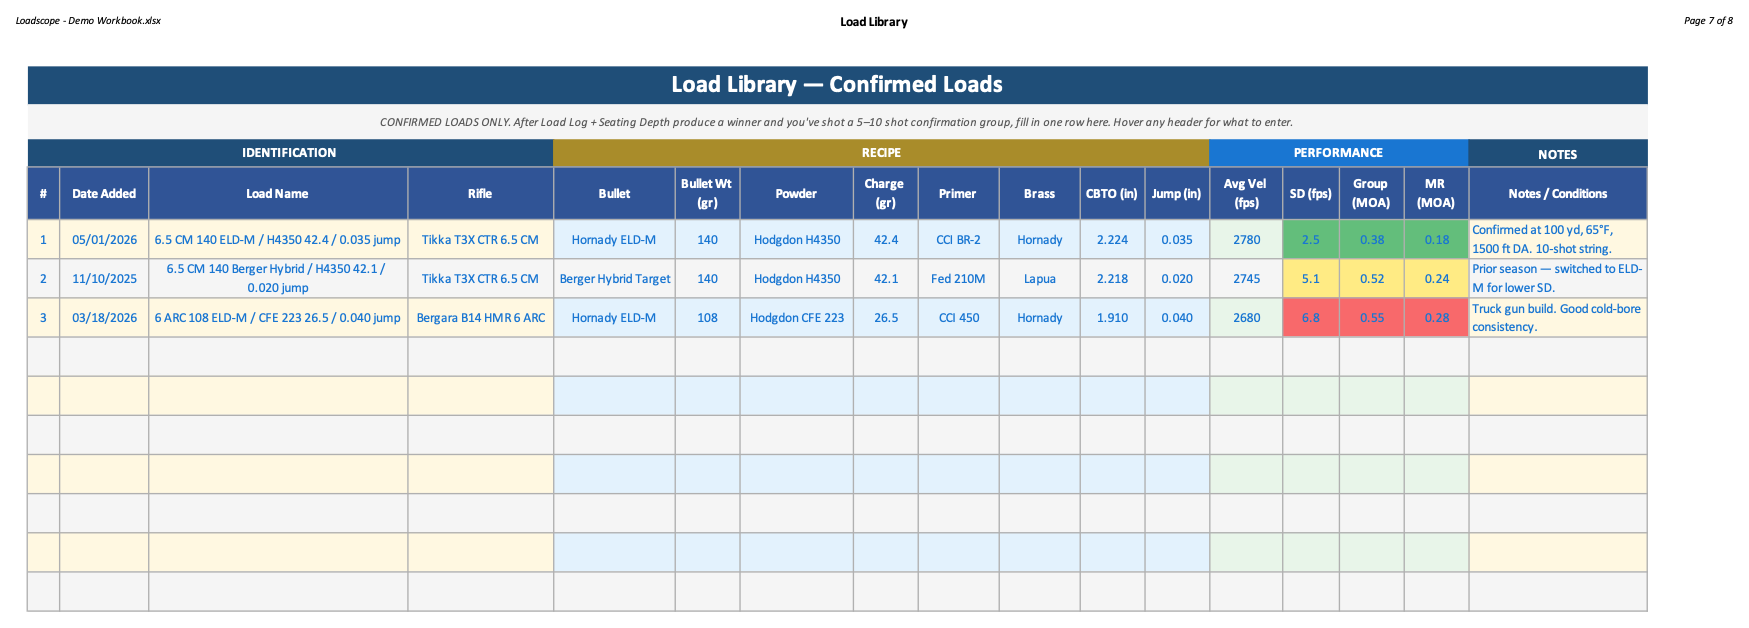
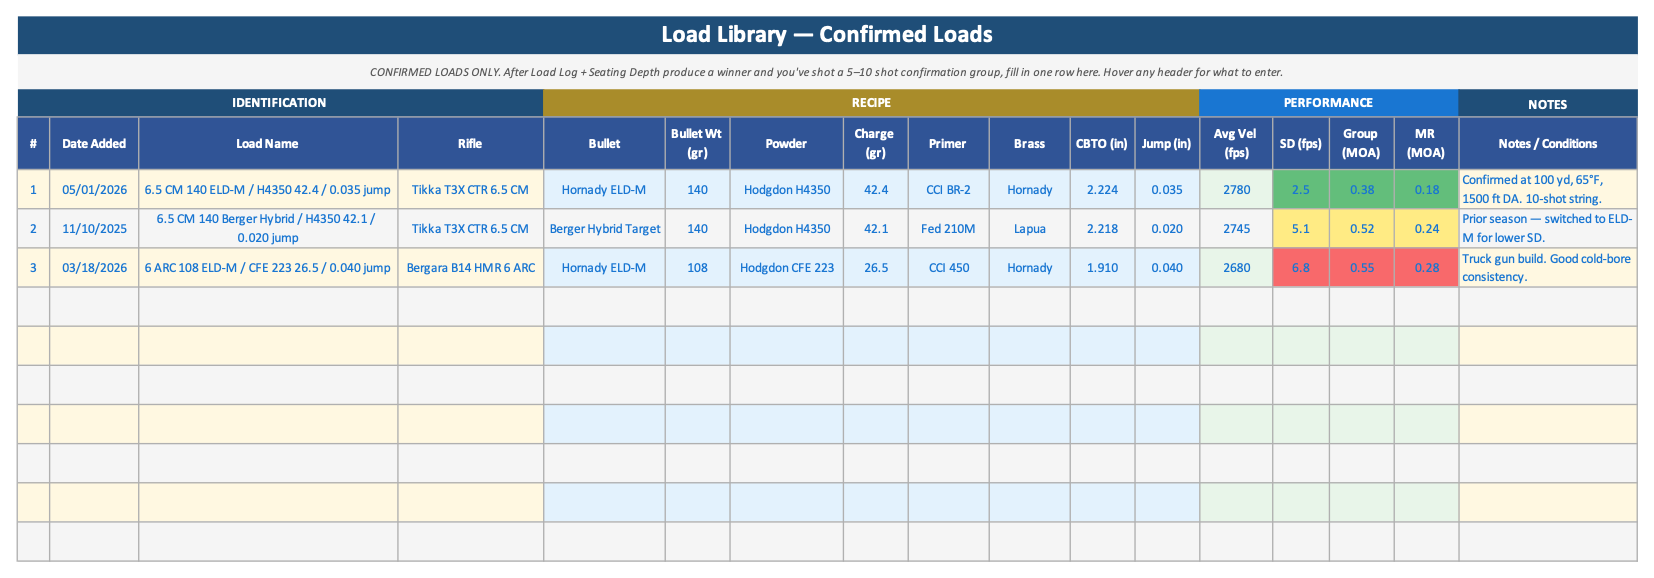
v0.14.6: demo polish - strip print header/footer + fix end Close
#1 (Chad): Load Log / Charts / Seating Depth demo images had a big
blank white band below the content so they displayed small. Root
cause: those sheets carry an Excel print FOOTER ('Rifle Load
Development Log / Page N') that pins the rendered bounding box to the
page bottom; autocrop then keeps all the white down to it. Ballistics
& Load Library have NO footer - exactly why they already looked right.
Fix: render tool now strips headers+footers (openpyxl temp copy) from
every sheet before the Excel PDF export, so all six crop tight and
display large + consistent. Re-rendered all 6 (visually verified).

#2 (Chad): the 'Close' button on the end screen did nothing - the
same button is 'Skip tour' mid-tour (-> skip()) and 'Close' at the
end, but skip() just re-ran _show_end_of_tour(). Added an _ended flag;
skip() now self.close()s once the tour has ended. Verified headless:
window closes on click.

Suite 132/132. Versions 0.14.5 -> 0.14.6.

diff --git a/tools/render_demo_screenshots.py b/tools/render_demo_screenshots.py
@@ -64,12 +64,35 @@ def _visible_sheet_pages():
     return {name: i + 1 for i, name in enumerate(vis)}, len(vis)
 
 
+def _prepped_workbook():
+    """Copy the demo workbook and strip print headers/footers from every
+    sheet. Load Log / Charts / Seating Depth carry a footer ("Rifle Load
+    Development Log / Page N") that pins the rendered content's bounding
+    box to the page bottom — so autocrop keeps a big white band and the
+    image displays small. Ballistics / Load Library have NO footer, which
+    is exactly why they already look right. Removing header+footer makes
+    every demo image crop tight and display large + consistent."""
+    from openpyxl import load_workbook
+    wb = load_workbook(DEMO_WB)
+    for name in wb.sheetnames:
+        ws = wb[name]
+        for hf in (ws.oddHeader, ws.oddFooter, ws.evenHeader,
+                   ws.evenFooter, ws.firstHeader, ws.firstFooter):
+            hf.left.text = hf.center.text = hf.right.text = None
+        ws.HeaderFooter.differentFirst = False
+        ws.HeaderFooter.differentOddEven = False
+    out = os.path.join(TMP, "_demo_noheader.xlsx")
+    wb.save(out)
+    return out
+
+
 def _export_workbook_pdf(pdf_path):
+    src = _prepped_workbook()
     _osa('tell application "Microsoft Excel" to try\n'
          'close every workbook saving no\nend try')
-    r = _osa(f'tell application "Microsoft Excel" to open POSIX file "{DEMO_WB}"')
+    r = _osa(f'tell application "Microsoft Excel" to open POSIX file "{src}"')
     if r.returncode != 0:
-        raise SystemExit(f"Could not open demo workbook in Excel:\n{r.stderr}")
+        raise SystemExit(f"Could not open prepped workbook in Excel:\n{r.stderr}")
     time.sleep(2.5)
     if os.path.exists(pdf_path):
         os.remove(pdf_path)

diff --git a/app/demo_tour.py b/app/demo_tour.py
@@ -479,6 +479,7 @@ if QWidget is not None:
             self._dwell_timer.setSingleShot(True)
             self._dwell_timer.timeout.connect(self._on_dwell_complete)
             self._paused = False
+            self._ended = False  # True once end-of-tour shown -> Close
 
             self.setWindowTitle("Loadscope — Demo Tour")
             self._build_ui()
@@ -645,6 +646,12 @@ if QWidget is not None:
                 self._render_stop(self._index - 1)
 
         def skip(self):
+            # The same button is "Skip tour" mid-tour and "Close" on the
+            # end screen. Once ended, it must actually close the window
+            # (previously it re-ran _show_end_of_tour and did nothing).
+            if self._ended:
+                self.close()
+                return
             self._dwell_timer.stop()
             self._show_end_of_tour()
 
@@ -718,6 +725,7 @@ if QWidget is not None:
                 self.next_btn.setText(f"Next → (wait {stop['min_dwell_seconds']}s)")
 
         def _show_end_of_tour(self):
+            self._ended = True
             self.title_label.setText("Tour complete")
             self.progress_label.setText(f"Step {len(self._stops)} of {len(self._stops)}")
             self.progress_bar.setValue(len(self._stops))

diff --git a/app/version.py b/app/version.py
@@ -11,7 +11,7 @@ from the app itself (e.g., a workbook tweak doesn't require rebuilding the .app)
 # App branding — one source of truth for display name + version
 APP_NAME = "Loadscope"
 LEGACY_APP_NAMES = ("True Zero", "Cold Bore", "Rifle Load Importer")  # for config migration on first launch
-APP_VERSION = "0.14.5"
+APP_VERSION = "0.14.6"
 TEMPLATE_VERSION = "1.0"
 
 # Disclaimer version — bump this if the disclaimer text changes substantively.

diff --git a/setup.py b/setup.py
@@ -69,7 +69,7 @@ sys.path.insert(0, str(HERE / "app"))
 
 APP_DISPLAY_NAME = "Loadscope"
 APP_BUNDLE_ID = "com.chadheidt.loadscope"
-APP_VERSION = "0.14.5"  # keep in sync with app/version.py
+APP_VERSION = "0.14.6"  # keep in sync with app/version.py
 
 # The main entry script
 ENTRY = ["app/main.py"]
